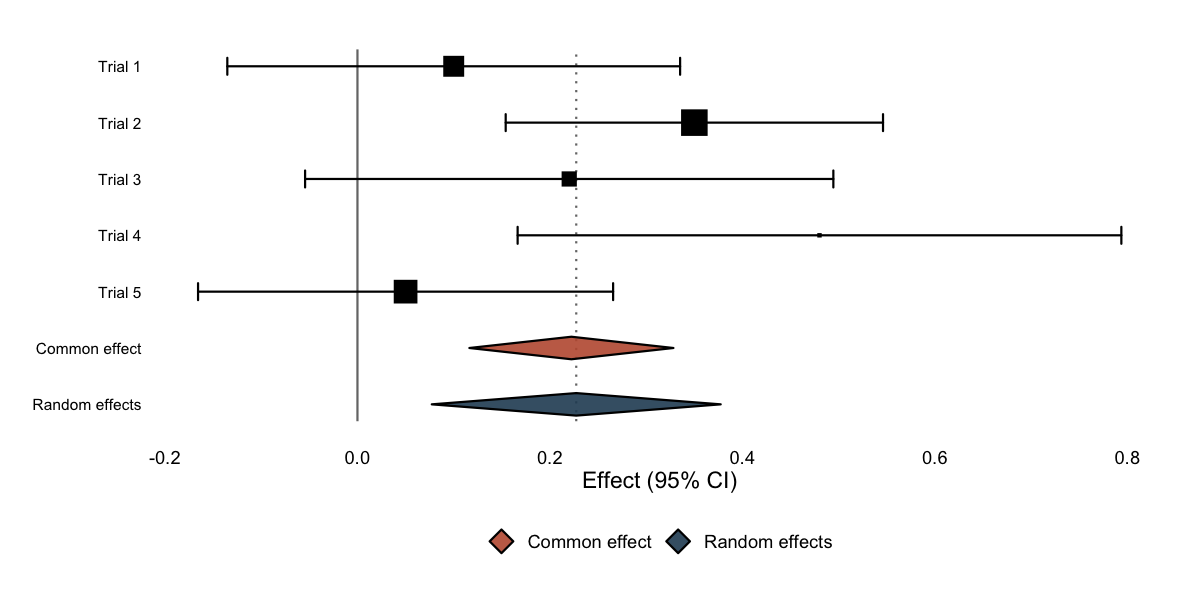
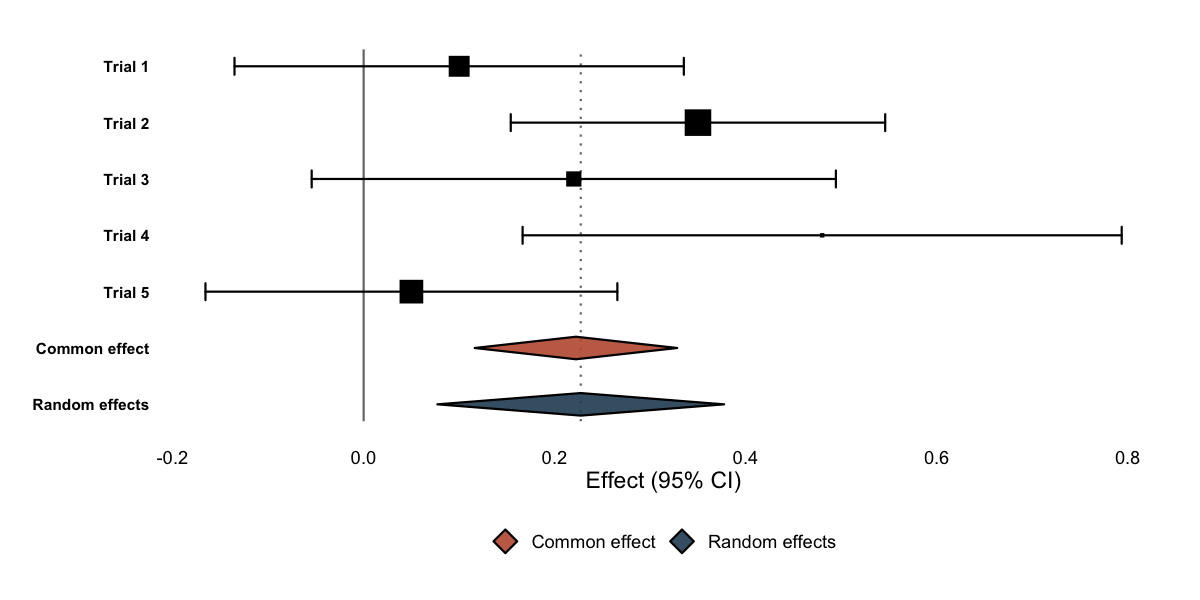
Deploying to gh-pages from @ drhrf/ggmeta@9b68531b0c392dbdd38a1074cf0396cb9056a3bb 🚀

diff --git a/index.html b/index.html
@@ -77,11 +77,58 @@
 <span></span>
 <span><span class="fu"><a href="reference/ggforest.html">ggforest</a></span><span class="op">(</span><span class="va">studies</span>, add_summary <span class="op">=</span> <span class="cn">TRUE</span><span class="op">)</span></span></code></pre></div>
 <p><img src="reference/figures/README-quick-start-1.png" alt="" width="100%"></p>
-<p>With a <code>meta</code> object, <code><a href="reference/ggforest.html">ggforest()</a></code> reads everything it needs directly:</p>
+</div>
+<div class="section level2">
+<h2 id="estimates-cis-weights-and-heterogeneity">Estimates, CIs, weights, and heterogeneity<a class="anchor" aria-label="anchor" href="#estimates-cis-weights-and-heterogeneity"></a>
+</h2>
+<p>Pass a <code>meta</code> object and add <code>columns = TRUE</code> to reproduce the familiar <code><a href="https://wviechtb.github.io/metafor/reference/forest.html" class="external-link">meta::forest()</a></code> table: an effect estimate, 95% CI, and weight column for every study and summary, headers, and a heterogeneity line (<em>I²</em>, <em>τ²</em>, <em>Q</em>, <em>p</em>) — all as a plain <code>ggplot</code>.</p>
 <div class="sourceCode" id="cb3"><pre class="downlit sourceCode r">
 <code class="sourceCode R"><span><span class="kw"><a href="https://rdrr.io/r/base/library.html" class="external-link">library</a></span><span class="op">(</span><span class="va"><a href="https://github.com/guido-s/meta/" class="external-link">meta</a></span><span class="op">)</span></span>
-<span><span class="va">m</span> <span class="op">&lt;-</span> <span class="fu"><a href="https://rdrr.io/pkg/meta/man/metabin.html" class="external-link">metabin</a></span><span class="op">(</span><span class="va">event.e</span>, <span class="va">n.e</span>, <span class="va">event.c</span>, <span class="va">n.c</span>, data <span class="op">=</span> <span class="va">dat</span>, studlab <span class="op">=</span> <span class="va">study</span>, sm <span class="op">=</span> <span class="st">"RR"</span><span class="op">)</span></span>
-<span><span class="fu"><a href="reference/ggforest.html">ggforest</a></span><span class="op">(</span><span class="va">m</span><span class="op">)</span></span></code></pre></div>
+<span><span class="co">#&gt; Loading required package: metabook</span></span>
+<span><span class="co">#&gt; Loading 'meta' package (version 8.5-0).</span></span>
+<span><span class="co">#&gt; Type 'help(meta)' for a brief overview.</span></span>
+<span></span>
+<span><span class="va">dat</span> <span class="op">&lt;-</span> <span class="fu"><a href="https://rdrr.io/r/base/data.frame.html" class="external-link">data.frame</a></span><span class="op">(</span></span>
+<span>  study   <span class="op">=</span> <span class="fu"><a href="https://rdrr.io/r/base/c.html" class="external-link">c</a></span><span class="op">(</span><span class="st">"Adams 2019"</span>, <span class="st">"Baker 2020"</span>, <span class="st">"Chen 2020"</span>,</span>
+<span>              <span class="st">"Diaz 2021"</span>, <span class="st">"Evans 2022"</span>, <span class="st">"Foster 2023"</span><span class="op">)</span>,</span>
+<span>  event.e <span class="op">=</span> <span class="fu"><a href="https://rdrr.io/r/base/c.html" class="external-link">c</a></span><span class="op">(</span><span class="fl">12</span>,  <span class="fl">8</span>, <span class="fl">25</span>, <span class="fl">18</span>, <span class="fl">30</span>, <span class="fl">15</span><span class="op">)</span>, n.e <span class="op">=</span> <span class="fu"><a href="https://rdrr.io/r/base/c.html" class="external-link">c</a></span><span class="op">(</span><span class="fl">120</span>,  <span class="fl">90</span>, <span class="fl">200</span>, <span class="fl">150</span>, <span class="fl">250</span>, <span class="fl">130</span><span class="op">)</span>,</span>
+<span>  event.c <span class="op">=</span> <span class="fu"><a href="https://rdrr.io/r/base/c.html" class="external-link">c</a></span><span class="op">(</span><span class="fl">20</span>, <span class="fl">14</span>, <span class="fl">30</span>, <span class="fl">28</span>, <span class="fl">35</span>, <span class="fl">25</span><span class="op">)</span>, n.c <span class="op">=</span> <span class="fu"><a href="https://rdrr.io/r/base/c.html" class="external-link">c</a></span><span class="op">(</span><span class="fl">118</span>,  <span class="fl">92</span>, <span class="fl">205</span>, <span class="fl">148</span>, <span class="fl">245</span>, <span class="fl">128</span><span class="op">)</span></span>
+<span><span class="op">)</span></span>
+<span></span>
+<span><span class="va">m</span> <span class="op">&lt;-</span> <span class="fu"><a href="https://rdrr.io/pkg/meta/man/metabin.html" class="external-link">metabin</a></span><span class="op">(</span><span class="va">event.e</span>, <span class="va">n.e</span>, <span class="va">event.c</span>, <span class="va">n.c</span>,</span>
+<span>             data <span class="op">=</span> <span class="va">dat</span>, studlab <span class="op">=</span> <span class="va">study</span>, sm <span class="op">=</span> <span class="st">"RR"</span><span class="op">)</span></span>
+<span></span>
+<span><span class="fu"><a href="reference/ggforest.html">ggforest</a></span><span class="op">(</span><span class="va">m</span>, columns <span class="op">=</span> <span class="cn">TRUE</span><span class="op">)</span></span></code></pre></div>
+<p><img src="reference/figures/README-meta-columns-1.png" alt="" width="100%"></p>
+<p>Everything is optional. Choose which columns to show, and toggle the other elements on or off:</p>
+<div class="sourceCode" id="cb4"><pre class="downlit sourceCode r">
+<code class="sourceCode R"><span><span class="fu"><a href="reference/ggforest.html">ggforest</a></span><span class="op">(</span><span class="va">m</span>, columns <span class="op">=</span> <span class="fu"><a href="https://rdrr.io/r/base/c.html" class="external-link">c</a></span><span class="op">(</span><span class="st">"estimate"</span>, <span class="st">"ci"</span><span class="op">)</span><span class="op">)</span> <span class="co"># only some columns</span></span>
+<span><span class="fu"><a href="reference/ggforest.html">ggforest</a></span><span class="op">(</span><span class="va">m</span>, effect_header <span class="op">=</span> <span class="st">"Risk ratio"</span><span class="op">)</span>  <span class="co"># rename the estimate column</span></span>
+<span><span class="fu"><a href="reference/ggforest.html">ggforest</a></span><span class="op">(</span><span class="va">m</span>, show_hetstats <span class="op">=</span> <span class="cn">FALSE</span><span class="op">)</span>          <span class="co"># hide the heterogeneity line</span></span>
+<span><span class="fu"><a href="reference/ggforest.html">ggforest</a></span><span class="op">(</span><span class="va">m</span>, show_predict  <span class="op">=</span> <span class="cn">FALSE</span><span class="op">)</span>          <span class="co"># hide the prediction interval</span></span>
+<span><span class="fu"><a href="reference/ggforest.html">ggforest</a></span><span class="op">(</span><span class="va">m</span>, sort_studies  <span class="op">=</span> <span class="cn">FALSE</span><span class="op">)</span>          <span class="co"># keep the input order</span></span></code></pre></div>
+</div>
+<div class="section level2">
+<h2 id="journal-styles">Journal styles<a class="anchor" aria-label="anchor" href="#journal-styles"></a>
+</h2>
+<p>Layout presets restyle a plot for common journals. They are ordinary ggplot2 components, so you add them with <code>+</code>:</p>
+<div class="sourceCode" id="cb5"><pre class="downlit sourceCode r">
+<code class="sourceCode R"><span><span class="fu"><a href="reference/layout_jama.html">layout_jama</a></span><span class="op">(</span><span class="fu"><a href="reference/ggforest.html">ggforest</a></span><span class="op">(</span><span class="va">m</span>, columns <span class="op">=</span> <span class="cn">TRUE</span><span class="op">)</span><span class="op">)</span></span></code></pre></div>
+<p><img src="reference/figures/README-layout-jama-1.png" alt="" width="100%"></p>
+<p><code><a href="reference/layout_bmj.html">layout_bmj()</a></code> and <code><a href="reference/layout_revman5.html">layout_revman5()</a></code> are also available.</p>
+</div>
+<div class="section level2">
+<h2 id="custom-columns">Custom columns<a class="anchor" aria-label="anchor" href="#custom-columns"></a>
+</h2>
+<p>For a column of your own — sample sizes, events, anything — use <code><a href="reference/geom_forest_text.html">geom_forest_text()</a></code>, aligned to the study rows through the shared <code>y</code>. <code><a href="reference/tidy_meta.html">tidy_meta()</a></code> exposes the same tidy data frame <code><a href="reference/ggforest.html">ggforest()</a></code> builds internally, and <code><a href="reference/format_effect.html">format_effect()</a></code> builds <code>"estimate (low to high)"</code> labels:</p>
+<div class="sourceCode" id="cb6"><pre class="downlit sourceCode r">
+<code class="sourceCode R"><span><span class="va">td</span>      <span class="op">&lt;-</span> <span class="fu"><a href="reference/tidy_meta.html">tidy_meta</a></span><span class="op">(</span><span class="va">m</span><span class="op">)</span></span>
+<span><span class="va">studies</span> <span class="op">&lt;-</span> <span class="va">td</span><span class="op">[</span><span class="op">!</span><span class="va">td</span><span class="op">$</span><span class="va">is_summary</span>, <span class="op">]</span></span>
+<span></span>
+<span><span class="fu"><a href="reference/ggforest.html">ggforest</a></span><span class="op">(</span><span class="va">m</span><span class="op">)</span> <span class="op">+</span></span>
+<span>  <span class="fu"><a href="reference/geom_forest_text.html">geom_forest_text</a></span><span class="op">(</span><span class="fu">aes</span><span class="op">(</span>y <span class="op">=</span> <span class="va">studlab</span>, label <span class="op">=</span> <span class="va">n.e</span><span class="op">)</span>, data <span class="op">=</span> <span class="va">studies</span>,</span>
+<span>                   x <span class="op">=</span> <span class="fl">4</span>, hjust <span class="op">=</span> <span class="fl">0</span><span class="op">)</span> <span class="op">+</span></span>
+<span>  <span class="fu">expand_limits</span><span class="op">(</span>x <span class="op">=</span> <span class="fl">6</span><span class="op">)</span></span></code></pre></div>
 </div>
 <div class="section level2">
 <h2 id="why-ggmeta">Why ggmeta?<a class="anchor" aria-label="anchor" href="#why-ggmeta"></a>
@@ -90,13 +137,13 @@
 <li>
 <strong>ggplot2 native</strong> — add themes, layers, annotations, and facets; save with <code>ggsave()</code>.</li>
 <li>
-<strong>Custom geometries</strong> — proper <code>ggproto</code> geoms for CIs, summary diamonds, prediction intervals, and reference lines.</li>
+<strong><code><a href="https://wviechtb.github.io/metafor/reference/forest.html" class="external-link">meta::forest()</a></code>-style tables</strong> — estimate / CI / weight columns and a heterogeneity caption, via <code>columns = TRUE</code>.</li>
+<li>
+<strong>Standalone or <code>meta</code></strong> — works on a tidy data frame or a <code>meta</code> object, and can pool studies itself (<code>add_summary = TRUE</code>).</li>
 <li>
 <strong>Correct by construction</strong> — every summary measure is back-transformed with its right inverse (ratios, logit proportions, Fisher-<em>z</em> correlations, rates).</li>
 <li>
-<strong>Standalone or <code>meta</code></strong> — works on a tidy data frame or a <code>meta</code> object, and can pool studies itself.</li>
-<li>
-<strong>Table columns</strong> — add <code><a href="https://wviechtb.github.io/metafor/reference/forest.html" class="external-link">meta::forest()</a></code>-style effect / CI / weight columns with <code>ggforest(columns = TRUE)</code>, or custom columns with <code><a href="reference/geom_forest_text.html">geom_forest_text()</a></code>.</li>
+<strong>Custom geometries</strong> — proper <code>ggproto</code> geoms for CIs, summary diamonds, prediction intervals, reference lines, and text columns.</li>
 <li>
 <strong>Journal styles</strong> — <code><a href="reference/layout_jama.html">layout_jama()</a></code>, <code><a href="reference/layout_bmj.html">layout_bmj()</a></code>, <code><a href="reference/layout_revman5.html">layout_revman5()</a></code>.</li>
 </ul>
@@ -146,6 +193,8 @@
 <h2 data-toc-skip>Dev status</h2>
 <ul class="list-unstyled">
 <li><a href="https://github.com/drhrf/ggmeta/actions/workflows/R-CMD-check.yaml" class="external-link"><img src="https://github.com/drhrf/ggmeta/actions/workflows/R-CMD-check.yaml/badge.svg" alt="R-CMD-check"></a></li>
+<li><a href="https://github.com/drhrf/ggmeta/actions/workflows/pkgdown.yaml" class="external-link"><img src="https://github.com/drhrf/ggmeta/actions/workflows/pkgdown.yaml/badge.svg" alt="pkgdown"></a></li>
+<li><a href="https://lifecycle.r-lib.org/articles/stages.html#experimental" class="external-link"><img src="https://img.shields.io/badge/lifecycle-experimental-orange.svg" alt="Lifecycle: experimental"></a></li>
 </ul>
 </div>
 

diff --git a/index.md b/index.md
@@ -38,33 +38,102 @@ ggforest(studies, add_summary = TRUE)
 
 ![](reference/figures/README-quick-start-1.png)
 
-With a `meta` object,
-[`ggforest()`](https://drhrf.github.io/ggmeta/reference/ggforest.md)
-reads everything it needs directly:
+## Estimates, CIs, weights, and heterogeneity
+
+Pass a `meta` object and add `columns = TRUE` to reproduce the familiar
+[`meta::forest()`](https://wviechtb.github.io/metafor/reference/forest.html)
+table: an effect estimate, 95% CI, and weight column for every study and
+summary, headers, and a heterogeneity line (*I²*, *τ²*, *Q*, *p*) — all
+as a plain `ggplot`.
 
 ``` r
 
 library(meta)
-m <- metabin(event.e, n.e, event.c, n.c, data = dat, studlab = study, sm = "RR")
-ggforest(m)
+#> Loading required package: metabook
+#> Loading 'meta' package (version 8.5-0).
+#> Type 'help(meta)' for a brief overview.
+
+dat <- data.frame(
+  study   = c("Adams 2019", "Baker 2020", "Chen 2020",
+              "Diaz 2021", "Evans 2022", "Foster 2023"),
+  event.e = c(12,  8, 25, 18, 30, 15), n.e = c(120,  90, 200, 150, 250, 130),
+  event.c = c(20, 14, 30, 28, 35, 25), n.c = c(118,  92, 205, 148, 245, 128)
+)
+
+m <- metabin(event.e, n.e, event.c, n.c,
+             data = dat, studlab = study, sm = "RR")
+
+ggforest(m, columns = TRUE)
+```
+
+![](reference/figures/README-meta-columns-1.png)
+
+Everything is optional. Choose which columns to show, and toggle the
+other elements on or off:
+
+``` r
+
+ggforest(m, columns = c("estimate", "ci")) # only some columns
+ggforest(m, effect_header = "Risk ratio")  # rename the estimate column
+ggforest(m, show_hetstats = FALSE)          # hide the heterogeneity line
+ggforest(m, show_predict  = FALSE)          # hide the prediction interval
+ggforest(m, sort_studies  = FALSE)          # keep the input order
+```
+
+## Journal styles
+
+Layout presets restyle a plot for common journals. They are ordinary
+ggplot2 components, so you add them with `+`:
+
+``` r
+
+layout_jama(ggforest(m, columns = TRUE))
+```
+
+![](reference/figures/README-layout-jama-1.png)
+
+[`layout_bmj()`](https://drhrf.github.io/ggmeta/reference/layout_bmj.md)
+and
+[`layout_revman5()`](https://drhrf.github.io/ggmeta/reference/layout_revman5.md)
+are also available.
+
+## Custom columns
+
+For a column of your own — sample sizes, events, anything — use
+[`geom_forest_text()`](https://drhrf.github.io/ggmeta/reference/geom_forest_text.md),
+aligned to the study rows through the shared `y`.
+[`tidy_meta()`](https://drhrf.github.io/ggmeta/reference/tidy_meta.md)
+exposes the same tidy data frame
+[`ggforest()`](https://drhrf.github.io/ggmeta/reference/ggforest.md)
+builds internally, and
+[`format_effect()`](https://drhrf.github.io/ggmeta/reference/format_effect.md)
+builds `"estimate (low to high)"` labels:
+
+``` r
+
+td      <- tidy_meta(m)
+studies <- td[!td$is_summary, ]
+
+ggforest(m) +
+  geom_forest_text(aes(y = studlab, label = n.e), data = studies,
+                   x = 4, hjust = 0) +
+  expand_limits(x = 6)
 ```
 
 ## Why ggmeta?
 
 - **ggplot2 native** — add themes, layers, annotations, and facets; save
   with `ggsave()`.
-- **Custom geometries** — proper `ggproto` geoms for CIs, summary
-  diamonds, prediction intervals, and reference lines.
+- **[`meta::forest()`](https://wviechtb.github.io/metafor/reference/forest.html)-style
+  tables** — estimate / CI / weight columns and a heterogeneity caption,
+  via `columns = TRUE`.
+- **Standalone or `meta`** — works on a tidy data frame or a `meta`
+  object, and can pool studies itself (`add_summary = TRUE`).
 - **Correct by construction** — every summary measure is
   back-transformed with its right inverse (ratios, logit proportions,
   Fisher-*z* correlations, rates).
-- **Standalone or `meta`** — works on a tidy data frame or a `meta`
-  object, and can pool studies itself.
-- **Table columns** — add
-  [`meta::forest()`](https://wviechtb.github.io/metafor/reference/forest.html)-style
-  effect / CI / weight columns with `ggforest(columns = TRUE)`, or
-  custom columns with
-  [`geom_forest_text()`](https://drhrf.github.io/ggmeta/reference/geom_forest_text.md).
+- **Custom geometries** — proper `ggproto` geoms for CIs, summary
+  diamonds, prediction intervals, reference lines, and text columns.
 - **Journal styles** —
   [`layout_jama()`](https://drhrf.github.io/ggmeta/reference/layout_jama.md),
   [`layout_bmj()`](https://drhrf.github.io/ggmeta/reference/layout_bmj.md),